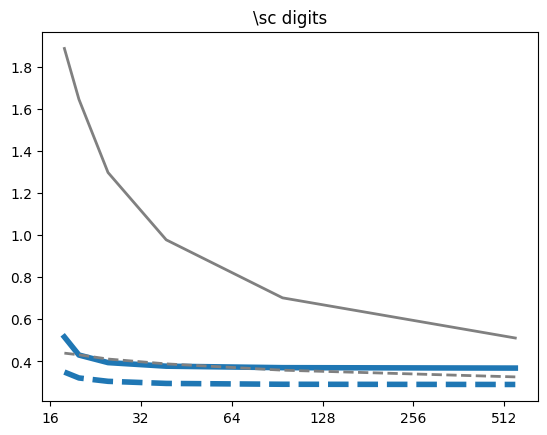
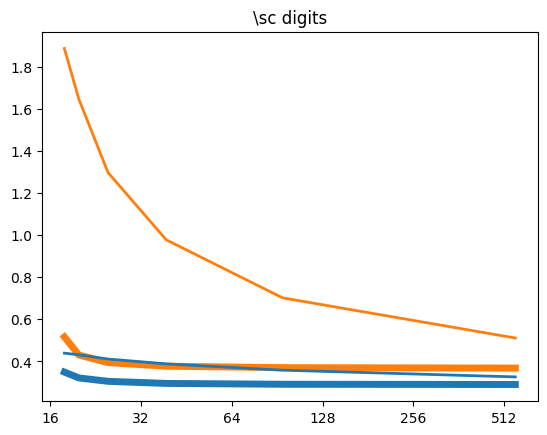
Modifying UCI table script

diff --git a/bnn-predictive/notebooks/plots/tikz/glass.tex b/bnn-predictive/notebooks/plots/tikz/glass.tex
@@ -4,7 +4,7 @@ scale=0.5
 ]
 
 \definecolor{darkgray176}{RGB}{176,176,176}
-\definecolor{gray}{RGB}{128,128,128}
+\definecolor{darkorange25512714}{RGB}{255,127,14}
 \definecolor{steelblue31119180}{RGB}{31,119,180}
 
 \begin{axis}[
@@ -20,7 +20,7 @@ y grid style={darkgray176},
 ymin=0.8518, ymax=1.2742,
 ytick style={color=black}
 ]
-\addplot [ultra thick, steelblue31119180]
+\addplot [line width=2pt, darkorange25512714]
 table {%
 16 1.004
 32 0.947
@@ -29,7 +29,7 @@ table {%
 256 0.926
 512 0.926
 };
-\addplot [ultra thick, steelblue31119180, dashed]
+\addplot [line width=2pt, steelblue31119180]
 table {%
 16 0.901
 32 0.871
@@ -38,7 +38,7 @@ table {%
 256 0.874
 512 0.874
 };
-\addplot [thick, gray]
+\addplot [thick, darkorange25512714]
 table {%
 16 1.255
 32 1.148
@@ -47,7 +47,7 @@ table {%
 256 0.927
 512 0.928
 };
-\addplot [thick, gray, dashed]
+\addplot [thick, steelblue31119180]
 table {%
 16 1.017
 32 0.994

diff --git a/bnn-predictive/notebooks/plots/tikz/ionosphere.tex b/bnn-predictive/notebooks/plots/tikz/ionosphere.tex
@@ -4,7 +4,7 @@ scale=0.5
 ]
 
 \definecolor{darkgray176}{RGB}{176,176,176}
-\definecolor{gray}{RGB}{128,128,128}
+\definecolor{darkorange25512714}{RGB}{255,127,14}
 \definecolor{steelblue31119180}{RGB}{31,119,180}
 
 \begin{axis}[
@@ -20,7 +20,7 @@ y grid style={darkgray176},
 ymin=0.28095, ymax=0.61205,
 ytick style={color=black}
 ]
-\addplot [ultra thick, steelblue31119180]
+\addplot [line width=2pt, darkorange25512714]
 table {%
 16 0.364
 32 0.345
@@ -29,7 +29,7 @@ table {%
 256 0.339
 512 0.339
 };
-\addplot [ultra thick, steelblue31119180, dashed]
+\addplot [line width=2pt, steelblue31119180]
 table {%
 16 0.302
 32 0.297
@@ -38,7 +38,7 @@ table {%
 256 0.296
 512 0.296
 };
-\addplot [thick, gray]
+\addplot [thick, darkorange25512714]
 table {%
 16 0.597
 32 0.537
@@ -47,7 +47,7 @@ table {%
 256 0.34
 512 0.34
 };
-\addplot [thick, gray, dashed]
+\addplot [thick, steelblue31119180]
 table {%
 16 0.353
 32 0.339

diff --git a/bnn-predictive/notebooks/plots/tikz/australian.tex b/bnn-predictive/notebooks/plots/tikz/australian.tex
@@ -4,7 +4,7 @@ scale=0.5
 ]
 
 \definecolor{darkgray176}{RGB}{176,176,176}
-\definecolor{gray}{RGB}{128,128,128}
+\definecolor{darkorange25512714}{RGB}{255,127,14}
 \definecolor{steelblue31119180}{RGB}{31,119,180}
 
 \begin{axis}[
@@ -20,7 +20,7 @@ y grid style={darkgray176},
 ymin=0.3021, ymax=0.5859,
 ytick style={color=black}
 ]
-\addplot [ultra thick, steelblue31119180]
+\addplot [line width=2pt, darkorange25512714]
 table {%
 16 0.331
 32 0.325
@@ -29,7 +29,7 @@ table {%
 256 0.324
 512 0.324
 };
-\addplot [ultra thick, steelblue31119180, dashed]
+\addplot [line width=2pt, steelblue31119180]
 table {%
 16 0.319
 32 0.315
@@ -38,7 +38,7 @@ table {%
 256 0.315
 512 0.315
 };
-\addplot [thick, gray]
+\addplot [thick, darkorange25512714]
 table {%
 16 0.573
 32 0.51
@@ -47,7 +47,7 @@ table {%
 256 0.342
 512 0.325
 };
-\addplot [thick, gray, dashed]
+\addplot [thick, steelblue31119180]
 table {%
 16 0.335
 32 0.334

diff --git a/bnn-predictive/notebooks/plots/tikz/satellite.tex b/bnn-predictive/notebooks/plots/tikz/satellite.tex
@@ -4,7 +4,7 @@ scale=0.5
 ]
 
 \definecolor{darkgray176}{RGB}{176,176,176}
-\definecolor{gray}{RGB}{128,128,128}
+\definecolor{darkorange25512714}{RGB}{255,127,14}
 \definecolor{steelblue31119180}{RGB}{31,119,180}
 
 \begin{axis}[
@@ -20,7 +20,7 @@ y grid style={darkgray176},
 ymin=0.2053, ymax=1.3647,
 ytick style={color=black}
 ]
-\addplot [ultra thick, steelblue31119180]
+\addplot [line width=2pt, darkorange25512714]
 table {%
 16 0.379
 32 0.334
@@ -29,7 +29,7 @@ table {%
 256 0.29
 512 0.289
 };
-\addplot [ultra thick, steelblue31119180, dashed]
+\addplot [line width=2pt, steelblue31119180]
 table {%
 16 0.291
 32 0.277
@@ -38,7 +38,7 @@ table {%
 256 0.264
 512 0.258
 };
-\addplot [thick, gray]
+\addplot [thick, darkorange25512714]
 table {%
 16 1.312
 32 1.12
@@ -47,7 +47,7 @@ table {%
 256 0.554
 512 0.435
 };
-\addplot [thick, gray, dashed]
+\addplot [thick, steelblue31119180]
 table {%
 16 0.367
 32 0.361

diff --git a/bnn-predictive/notebooks/plots/tikz/digits.tex b/bnn-predictive/notebooks/plots/tikz/digits.tex
@@ -4,7 +4,7 @@ scale=0.5
 ]
 
 \definecolor{darkgray176}{RGB}{176,176,176}
-\definecolor{gray}{RGB}{128,128,128}
+\definecolor{darkorange25512714}{RGB}{255,127,14}
 \definecolor{steelblue31119180}{RGB}{31,119,180}
 
 \begin{axis}[
@@ -20,7 +20,7 @@ y grid style={darkgray176},
 ymin=0.2101, ymax=1.9679,
 ytick style={color=black}
 ]
-\addplot [ultra thick, steelblue31119180]
+\addplot [line width=2pt, darkorange25512714]
 table {%
 16 0.516
 32 0.43
@@ -29,7 +29,7 @@ table {%
 256 0.37
 512 0.368
 };
-\addplot [ultra thick, steelblue31119180, dashed]
+\addplot [line width=2pt, steelblue31119180]
 table {%
 16 0.349
 32 0.321
@@ -38,7 +38,7 @@ table {%
 256 0.291
 512 0.29
 };
-\addplot [thick, gray]
+\addplot [thick, darkorange25512714]
 table {%
 16 1.888
 32 1.646
@@ -47,7 +47,7 @@ table {%
 256 0.702
 512 0.511
 };
-\addplot [thick, gray, dashed]
+\addplot [thick, steelblue31119180]
 table {%
 16 0.439
 32 0.431

diff --git a/bnn-predictive/notebooks/plots/tikz/vehicle.tex b/bnn-predictive/notebooks/plots/tikz/vehicle.tex
@@ -4,7 +4,7 @@ scale=0.5
 ]
 
 \definecolor{darkgray176}{RGB}{176,176,176}
-\definecolor{gray}{RGB}{128,128,128}
+\definecolor{darkorange25512714}{RGB}{255,127,14}
 \definecolor{steelblue31119180}{RGB}{31,119,180}
 
 \begin{axis}[
@@ -20,7 +20,7 @@ y grid style={darkgray176},
 ymin=0.408, ymax=1.178,
 ytick style={color=black}
 ]
-\addplot [ultra thick, steelblue31119180]
+\addplot [line width=2pt, darkorange25512714]
 table {%
 16 0.578
 32 0.544
@@ -29,7 +29,7 @@ table {%
 256 0.485
 512 0.484
 };
-\addplot [ultra thick, steelblue31119180, dashed]
+\addplot [line width=2pt, steelblue31119180]
 table {%
 16 0.496
 32 0.486
@@ -38,7 +38,7 @@ table {%
 256 0.443
 512 0.444
 };
-\addplot [thick, gray]
+\addplot [thick, darkorange25512714]
 table {%
 16 1.143
 32 1.016
@@ -47,7 +47,7 @@ table {%
 256 0.615
 512 0.5
 };
-\addplot [thick, gray, dashed]
+\addplot [thick, steelblue31119180]
 table {%
 16 0.604
 32 0.577

diff --git a/bnn-predictive/notebooks/plots/tikz/waveform.tex b/bnn-predictive/notebooks/plots/tikz/waveform.tex
@@ -4,7 +4,7 @@ scale=0.5
 ]
 
 \definecolor{darkgray176}{RGB}{176,176,176}
-\definecolor{gray}{RGB}{128,128,128}
+\definecolor{darkorange25512714}{RGB}{255,127,14}
 \definecolor{steelblue31119180}{RGB}{31,119,180}
 
 \begin{axis}[
@@ -20,7 +20,7 @@ y grid style={darkgray176},
 ymin=0.322, ymax=0.718,
 ytick style={color=black}
 ]
-\addplot [ultra thick, steelblue31119180]
+\addplot [line width=2pt, darkorange25512714]
 table {%
 16 0.362
 32 0.354
@@ -29,7 +29,7 @@ table {%
 256 0.349
 512 0.349
 };
-\addplot [ultra thick, steelblue31119180, dashed]
+\addplot [line width=2pt, steelblue31119180]
 table {%
 16 0.348
 32 0.343
@@ -38,7 +38,7 @@ table {%
 256 0.34
 512 0.34
 };
-\addplot [thick, gray]
+\addplot [thick, darkorange25512714]
 table {%
 16 0.7
 32 0.574
@@ -47,7 +47,7 @@ table {%
 256 0.383
 512 0.357
 };
-\addplot [thick, gray, dashed]
+\addplot [thick, steelblue31119180]
 table {%
 16 0.37
 32 0.365

diff --git a/bnn-predictive/notebooks/plots/tikz/breast_cancer.tex b/bnn-predictive/notebooks/plots/tikz/breast_cancer.tex
@@ -4,7 +4,7 @@ scale=0.5
 ]
 
 \definecolor{darkgray176}{RGB}{176,176,176}
-\definecolor{gray}{RGB}{128,128,128}
+\definecolor{darkorange25512714}{RGB}{255,127,14}
 \definecolor{steelblue31119180}{RGB}{31,119,180}
 
 \begin{axis}[
@@ -20,7 +20,7 @@ y grid style={darkgray176},
 ymin=-0.0237, ymax=0.4977,
 ytick style={color=black}
 ]
-\addplot [ultra thick, steelblue31119180]
+\addplot [line width=2pt, darkorange25512714]
 table {%
 16 0.113
 32 0.113
@@ -29,7 +29,7 @@ table {%
 256 0.113
 512 0
 };
-\addplot [ultra thick, steelblue31119180, dashed]
+\addplot [line width=2pt, steelblue31119180]
 table {%
 16 0.096
 32 0.096
@@ -38,7 +38,7 @@ table {%
 256 0.097
 512 0
 };
-\addplot [thick, gray]
+\addplot [thick, darkorange25512714]
 table {%
 16 0.474
 32 0.409
@@ -47,7 +47,7 @@ table {%
 256 0.141
 512 0
 };
-\addplot [thick, gray, dashed]
+\addplot [thick, steelblue31119180]
 table {%
 16 0.11
 32 0.109
